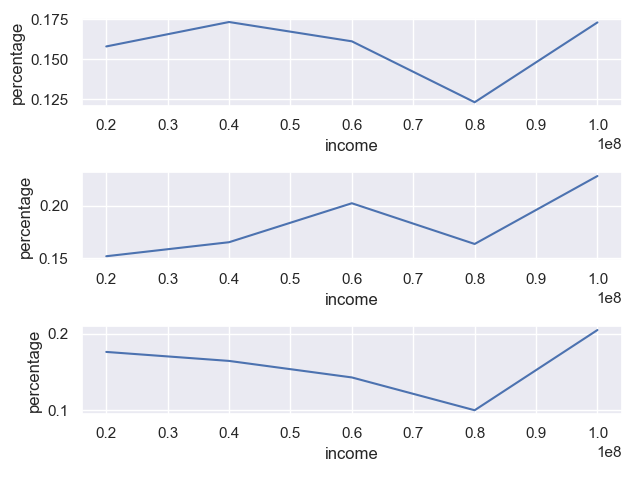
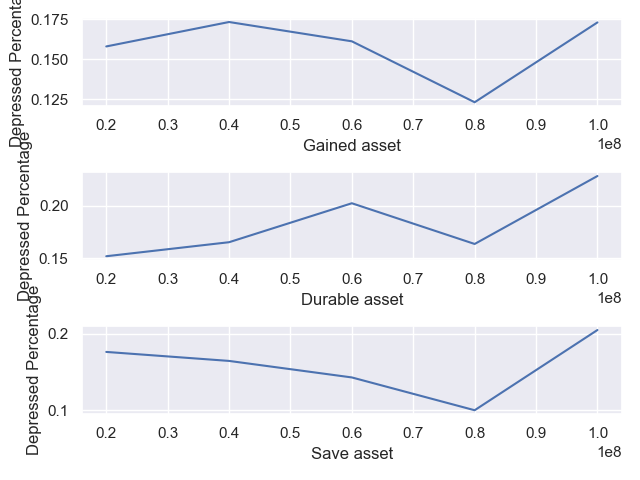
labels

diff --git a/main.py b/main.py
@@ -41,16 +41,16 @@ def money_depression_relationship(data: pd.DataFrame):
     fig, ax = plt.subplots(3)
     data = get_precent(gained_asset, depression_status)
     sns.lineplot(data=data, x="income", y="percentage", ax=ax[0])
-    ax1.set_xlabel('Gained asset')
-    ax1.set_ylabel('Depressed Percentage')
+    ax[0].set_xlabel('Gained asset')
+    ax[0].set_ylabel('Depressed Percentage')
     data = get_precent(durable_asset, depression_status)
     sns.lineplot(data=data, x="income", y="percentage", ax=ax[1])
-    ax2.set_xlabel('Durable asset')
-    ax2.set_ylabel('Depressed Percentage')
+    ax[1].set_xlabel('Durable asset')
+    ax[1].set_ylabel('Depressed Percentage')
     data = get_precent(save_asset, depression_status)
     sns.lineplot(data=data, x="income", y="percentage", ax=ax[2])
-    ax3.set_xlabel('Save asset')
-    ax3.set_ylabel('Depressed Percentage')
+    ax[2].set_xlabel('Save asset')
+    ax[2].set_ylabel('Depressed Percentage')
     plt.tight_layout()
     plt.savefig("percentage_asset")
 
